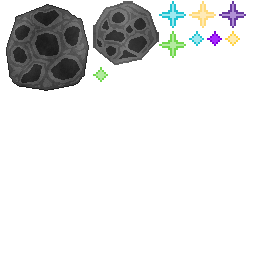
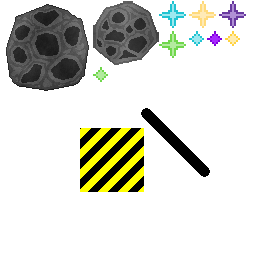
working walls

Changed region(s): [[0.3125, 0.5, 0.5625, 0.75], [0.5312, 0.4062, 0.8438, 0.6875]]

diff --git a/py/main.py b/py/main.py
@@ -11,6 +11,11 @@ import kivent_cymunk
 from kivent_core.gameworld import GameWorld
 from kivent_core.managers.resource_managers import texture_manager
 
+
+from kivent_maps import map_utils
+from kivent_maps.map_system import MapSystem
+
+
 from kivent_core.rendering.svg_loader import SVGModelInfo
 from kivent_core.systems.renderers import RotateRenderer
 from kivent_core.systems.position_systems import PositionSystem2D
@@ -28,10 +33,14 @@ from logging import warning as prinw
 from logging import error as prine
 
 
-texture_manager.load_atlas(
-        join(dirname(dirname(abspath(__file__))), 'assets', 
-        'background_objects.atlas'))
+#atlas_dir = join(dirname(dirname(abspath(__file__))), 'assets') 
 
+def get_asset_path(asset, asset_loc):
+    return join(dirname(dirname(abspath(__file__))), asset_loc, asset)
+
+texture_manager.load_atlas(get_asset_path('background_objects.atlas','assets'))
+#texture_manager.load_atlas(get_asset_path('dalek_objects.atlas','assets'))
+#texture_manager.load_atlas(join(atlas_dir, 'robot_objects.atlas'))
 
 print(join(dirname(dirname(abspath(__file__))), 'assets', 'glsl'))
 
@@ -51,9 +60,119 @@ class TestGame(Widget):
         self.set_state()
         self.init_physicals()
 
+    def info(self, text):
+        self.app.info_text += '\n' + str(text)
+
     def init_physicals(self):
         self.draw_some_stuff()
-        self.draw_boundaries()
+#        self.draw_boundaries()
+
+        
+        init_entity = self.gameworld.init_entity
+
+
+        Ww, Wh = Wsize = Window.size
+        prinw(Wsize)
+        self.info(Wsize)
+        
+        self.wall_id = 0
+        # thickness
+        t = 125
+        x0, y0 = 30,30 
+        w0, h0 = Ww-2*x0, Wh-2*y0
+        w0, h0 = 800, 800
+        
+        sizes = [#(w0,h0),
+                (w0, t), 
+                (t, h0+2*t),
+                (w0,t),
+                (t, h0+2*t)
+                ]
+
+    #    poss = []
+        poss = [#[0,0],  
+                [0, 0], [w0, 0], [0, h0], [0, 0]]
+        sgn = [#(0,0),
+                (1, -1), (1, 1), (1, 1), (-1, 1)]
+        for i, size in enumerate(sizes):
+            poss[i][0] += x0 + size[0]/2 * sgn[i][0]
+            poss[i][1] += y0 + size[1]/2 * sgn[i][1]
+ #       poss = [(x0 + w0/2, y0 - t/2), 
+  #              (x0 + w0 + t/2, y0 + ),
+   #             ]
+        poss[1][1] += -t
+        poss[3][1] += -t
+#        poss[0] = [x0 + w0/2, y0 + h0/2]
+        txu = 'warning'
+
+        for i, (pos, size) in enumerate(zip(poss, sizes)):
+            self.create_wall(pos, size, i, txu)
+
+ #       self.create_wall([290,290], [300,360], 0, txu)
+
+
+    def create_wall(self, pos, size, i, txu): 
+        w, h = size
+        
+        model_key = 'wall' + str(self.wall_id)
+        txu = 'warning'
+        mm = self.gameworld.model_manager
+        mm.load_textured_rectangle('vertex_format_4f', w, h, txu, model_key)
+        mass = 0
+
+        shape_dict = {
+                'width': w, 'height': h,
+                'mass': mass, 
+            }
+        col_shape = {
+                'shape_type': 'box', 
+                'elasticity': 1.0,
+                'collision_type': 0, 
+                'shape_info': shape_dict, 'friction': 1.0
+            }
+        col_shapes = [col_shape]
+        physics_component = {
+                'main_shape': 'box',
+                'velocity': (0, 0),
+                'position': pos, 'angle': 0,
+                'angular_velocity': 0,
+                'vel_limit': 0,
+                'ang_vel_limit': 0,
+                'mass': mass, 'col_shapes': col_shapes
+            }
+
+        create_component_dict = {
+                'cymunk_physics': physics_component,
+                'rotate_renderer': {
+                    'texture': txu,
+                    'model_key': model_key,
+                    },
+                'position': pos,
+                'rotate': 0,
+            }
+
+#        create_component_dict = {
+ #           'cymunk_physics': physics_component,
+  #          'rotate_renderer': {
+   #             'texture': 'asteroid1',
+    #            'size': (45, 45),
+     #           'render': True
+      #          },
+       #     'position': pos,
+        #    'rotate': 0, }
+
+ #       component_order = ['position', 'rotate', 'rotate_renderer',
+  #          'cymunk_physics',]
+ #       component_order = ['cymunk_physics', 'renderer', 'position']       
+
+        #ent = self.gameworld.init_entity(create_component_dict, ['position', 'renderer'])
+        component_order = ['position', 'rotate', 'rotate_renderer', 'cymunk_physics']
+        ent = self.gameworld.init_entity(create_component_dict, component_order)
+        self.wall_id += 1
+        return
+
+#        return self.gameworld.init_entity(create_component_dict, component_order)
+        return ent
 
     def destroy_created_entity(self, ent_id, dt):
         self.gameworld.remove_entity(ent_id)
@@ -63,7 +182,8 @@ class TestGame(Widget):
 
         #self.load_svg('../assets/maps/map_boundaries.svg', self.gameworld, True)
         w, h = size = Window.size
-        prinw(size)
+        
+        create_boundary(pos, size)
 
     def draw_some_stuff(self):
         size = Window.size
@@ -79,8 +199,13 @@ class TestGame(Widget):
 
         self.load_svg('objects.svg', self.gameworld)
 
-    def create_boundaries(self):
+    def create_boundary(self, pos, size):
+        shape_dict = {
+                'mass': 0, 'offset': (0,0)
+                }
+
         pass
+        
 
     def create_asteroid(self, pos):
         x_vel = randint(-15, 15)
@@ -246,6 +371,7 @@ class DebugPanel(Widget):
 class DalekApp(App):
     count = NumericProperty(0)
     info_text = StringProperty('...')
+    damping = NumericProperty(0.5)
     #def __init__(self, **kwargs):
      #   super(App, self).__init__(**kwargs)
       #  return 
@@ -262,11 +388,12 @@ class DalekApp(App):
         Config.set('graphics', 'width', w)
         Config.set('graphics', 'top', 15)
         Config.set('graphics', 'left', 4)
+        #Config.set('graphics',
         #Config.set('graphics', 'multisamples', 0) # to correct bug from kivy 1.9.1 - https://github.com/kivy/kivy/issues/3576
 
         # Config.set('graphics', 'fullscreen', 'fake')
         # Config.set('graphics', 'fullscreen', 1)
-
+        Window.clearcolor = (1,1,1,1)
         self.root = TestGame()
         return self.root
 
